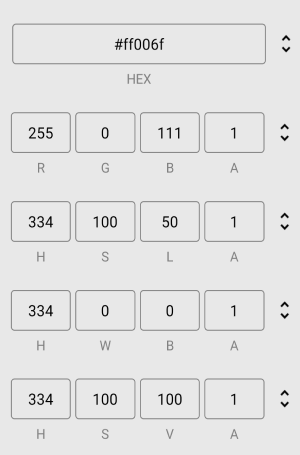
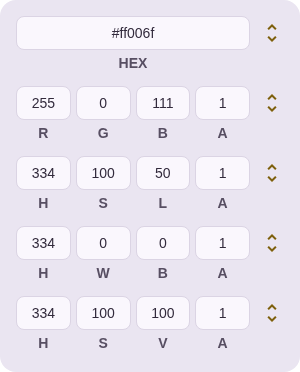
docs: restyle the InputWidget and Swatches images to match the docs theme
Add a dark version of each image and show the one that matches the
current color scheme.

diff --git a/docs/sources/styles/docs.css b/docs/sources/styles/docs.css
@@ -71,3 +71,8 @@
     border-radius: 0.25em;
   }
 }
+
+[data-color-scheme="dark"] .light-scheme-only,
+[data-color-scheme="light"] .dark-scheme-only {
+  display: none;
+}

diff --git a/docs/pages/components/preview/input-widget.md b/docs/pages/components/preview/input-widget.md
@@ -4,7 +4,10 @@ sidebar.order: 3
 
 # `<InputWidget />`
 
-![InputWidget](@assets/images/InputWidgets.png)
+<p>
+  <img src="@assets/images/InputWidgets.png" alt="InputWidget" class="light-scheme-only" />
+  <img src="@assets/images/InputWidgets-dark.png" alt="InputWidget" class="dark-scheme-only" />
+</p>
 
 An input component for entering color values in RGB, HEX, HSL, HWB, and HSV formats. Includes a cycle button to switch between formats.
 

diff --git a/docs/pages/components/preview/swatches.md b/docs/pages/components/preview/swatches.md
@@ -4,7 +4,10 @@ sidebar.order: 4
 
 # `<Swatches />`
 
-![swatches](@assets/images/swatches.png)
+<p>
+  <img src="@assets/images/swatches.png" alt="swatches" class="light-scheme-only" />
+  <img src="@assets/images/swatches-dark.png" alt="swatches" class="dark-scheme-only" />
+</p>
 
 A list of color swatches for quick color selection.
 
